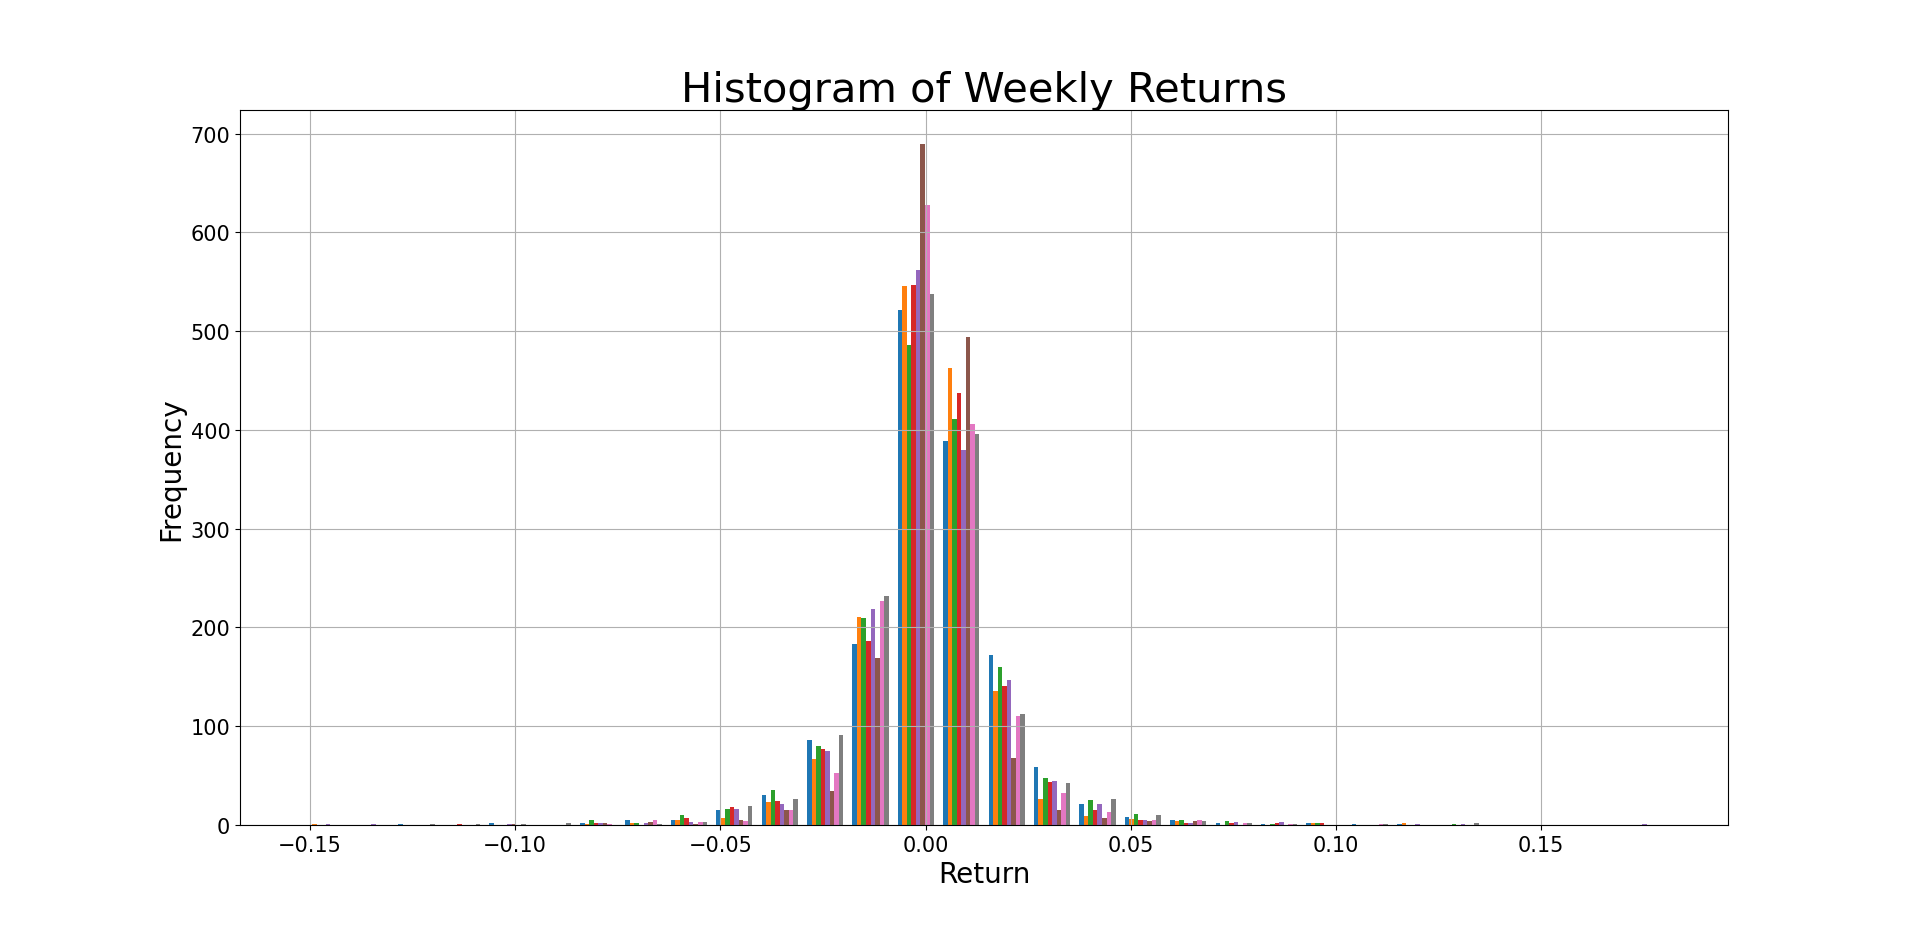
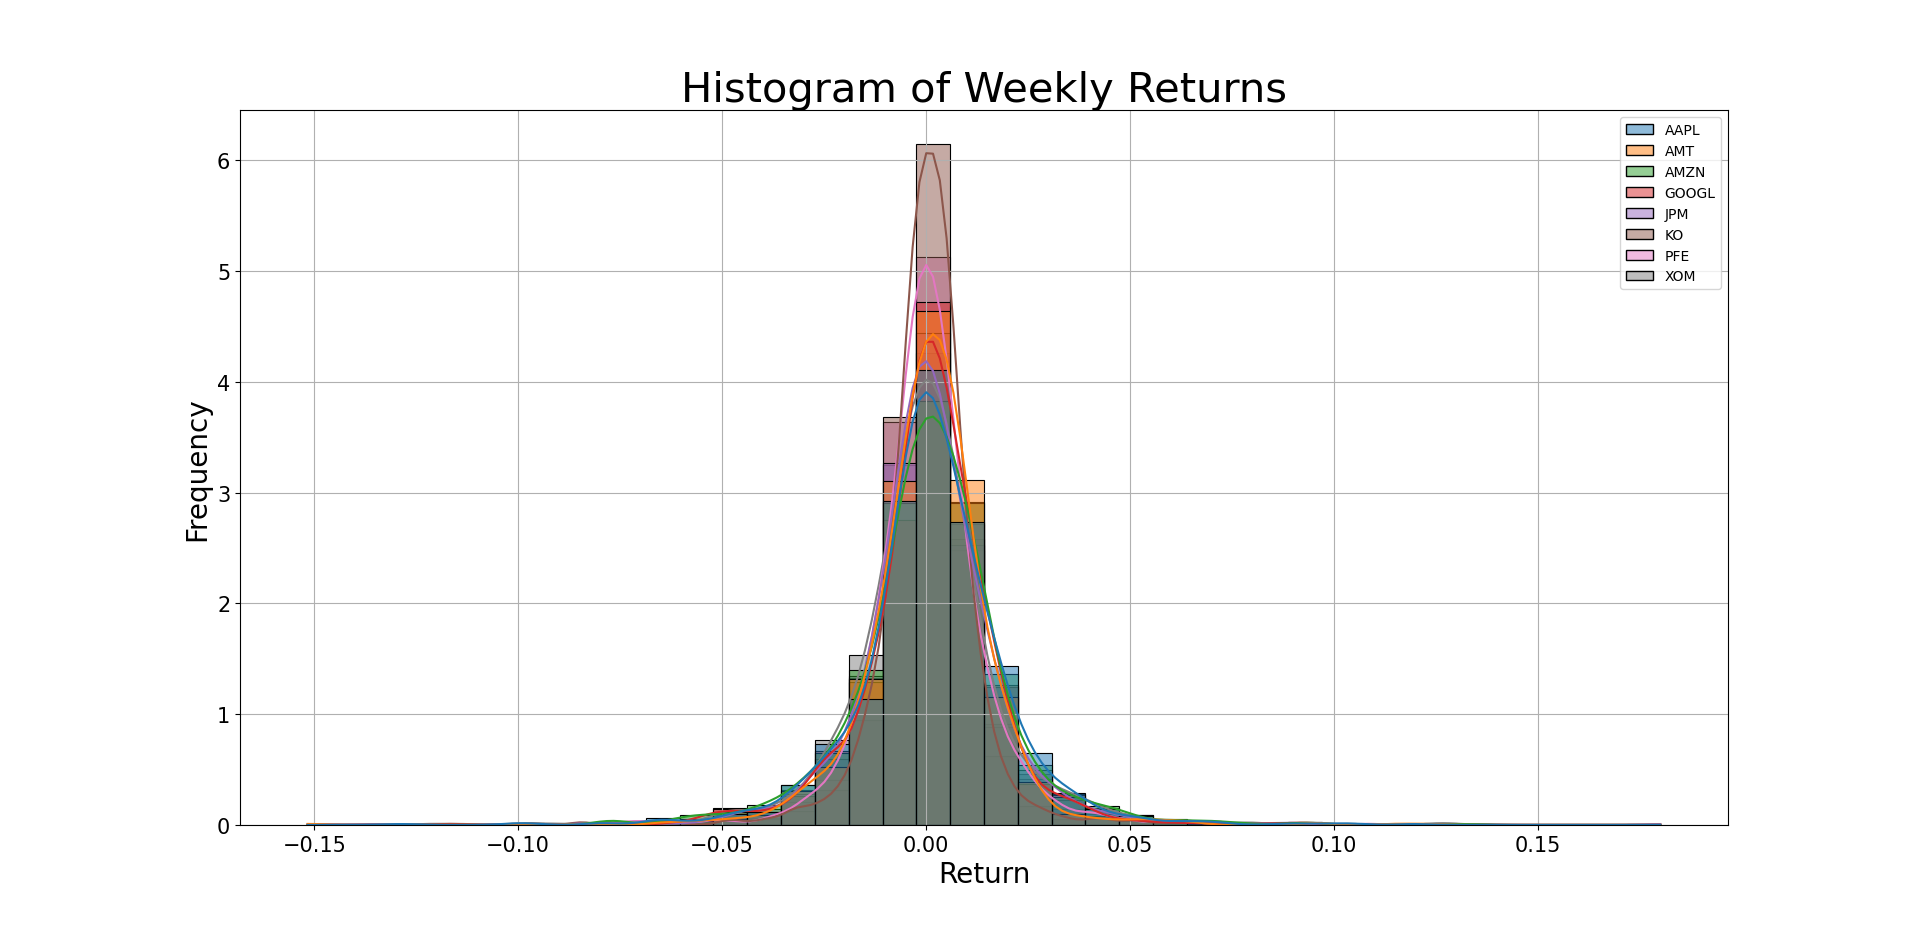
ARMA model

diff --git a/Project/project.py b/Project/project.py
@@ -20,6 +20,14 @@ from scipy.stats import gmean
 import pandas as pd
 import statistics as stat
 from scipy import stats
+import seaborn as sns
+from statsmodels.graphics.tsaplots import plot_acf, plot_pacf
+from statsmodels.tsa.arima.model import ARIMA
+from pmdarima.arima import auto_arima
+from arch import arch_model
+import warnings
+
+warnings.filterwarnings("ignore")
 
 
 TICKERS = sorted(["GOOGL", "KO", "AAPL", "AMZN", "PFE", "AMT", "XOM", "JPM"])
@@ -54,7 +62,7 @@ def return_analysis(tickers, daily_returns):
     mean_daily_returns = gmean(daily_returns + 1) - 1
     mean_annual_returns = (1 + mean_daily_returns)**252 - 1   
 
-    print("\n=== Mean annual returns ===")        
+    print("\n=== Mean annual returns ===")       
     for etf, geomean_annual in zip(tickers, mean_annual_returns):
         print("{}: {}%".format(etf, round(geomean_annual*100, 2)))
 
@@ -79,7 +87,8 @@ def return_analysis(tickers, daily_returns):
     
     #Histogram of returns to show distribution
     figure = plt.figure()
-    plt.hist(daily_returns, bins=30)
+    #plt.hist(daily_returns, density = True, bins=30)
+    ax = sns.histplot(daily_returns, kde = True, stat = "density", bins = 40)
     plt.title('Histogram of Weekly Returns', fontsize=30)
     plt.xlabel('Return', fontsize=20)
     plt.ylabel('Frequency', fontsize=20)
@@ -95,6 +104,12 @@ def return_analysis(tickers, daily_returns):
     for i in range(len(tickers)):
         print(f"{tickers[i]}: {round(sharpe[i], 3)}")
         
+    print("\nCopy to overleaf")
+    print("=== Stock \t Annual return \t St dev \t Sharpe r ===")
+    for i in range(len(tickers)):
+        print(f"{tickers[i]}: &\t {round(mean_annual_returns[i]*100, 2)} &\t {round(sd_annual[i]*100, 2)} &\t {round(sharpe[i], 3)} \\")
+        
+        
         
     #Calculate range, skewness, kurtosis of returns
     ranges = [max(daily_returns[stock]) - min(daily_returns[stock]) for stock in tickers]
@@ -107,9 +122,46 @@ def return_analysis(tickers, daily_returns):
         
     return
 
+def build_model(daily_returns):
+    
+    stock1 = "GOOGL"
+    stock2 = "PFE"
+    
+    #Plotting auto-correlation and partial auto-correlation of selected stocks
+    plot_acf(daily_returns[stock1], lags = 50, title = f"Auto-correlation of {stock1}")
+    plot_pacf(daily_returns[stock1], lags = 50, title = f"Partial auto-correlation of {stock1}", method='ywm')
+    
+    plot_acf(daily_returns[stock2], lags = 50, title = f"Auto-correlation of {stock2}")
+    plot_pacf(daily_returns[stock2], lags = 50, title = f"Partial auto-correlation of {stock2}", method='ywm')
+    
+    #TODO: Put them in subplots
+    
+    #Estimation of ARIMA part, running through all values
+    # values = []
+    # for i in range(5):
+    #     for j in range(5):  
+    #         model = ARIMA(daily_returns["GOOGL"], order = (i,1,j))
+    #         results = model.fit()
+    #         values.append(round(results.aic, 3))
+            
+    # print(values)
+    # print(f"The optimal model's fit is: {min([abs(i) for i in values])}")
+            
+    model = ARIMA(daily_returns[stock1], order = (0,1,0))  #AR = 0, diff = 1, MA=0
+    results = model.fit()
+    print("AIC: ", round(results.aic, 3), "\nBIC: ", round(results.bic, 3))
+    
+    
+    #TODO: Estimation for GARCH model
+    #model_ARMA_train_residuals = daily_returns[stock1] - model.predict()
+    #model_GARCH = arch_model(model_ARMA_train_residuals, p = 1, q = 1, mean = 'zero', dist = 'normal')
+    #model_GARCH = model_GARCH.fit()
+    
+    return
+
+
 def main(test=False):
     
-    #Download and plot stock data
     stock_data = yf.download(
     tickers = TICKERS,
     start = START,
@@ -124,19 +176,16 @@ def main(test=False):
     daily_returns = stock_data["Adj Close"].pct_change().dropna()
     
     #Plotting historical prices, returns
-    historical_data(TICKERS, stock_data, daily_returns)
+    #historical_data(TICKERS, stock_data, daily_returns)
     
     #Calculate annualised mean and covariance
-    return_analysis(TICKERS, daily_returns)
+    #return_analysis(TICKERS, daily_returns)
 
-    
-
-    
     
     
     """------------------------------ DATA ANALYSIS ----------------------------------------"""
     
-    
+    build_model(daily_returns)
 
     
 
